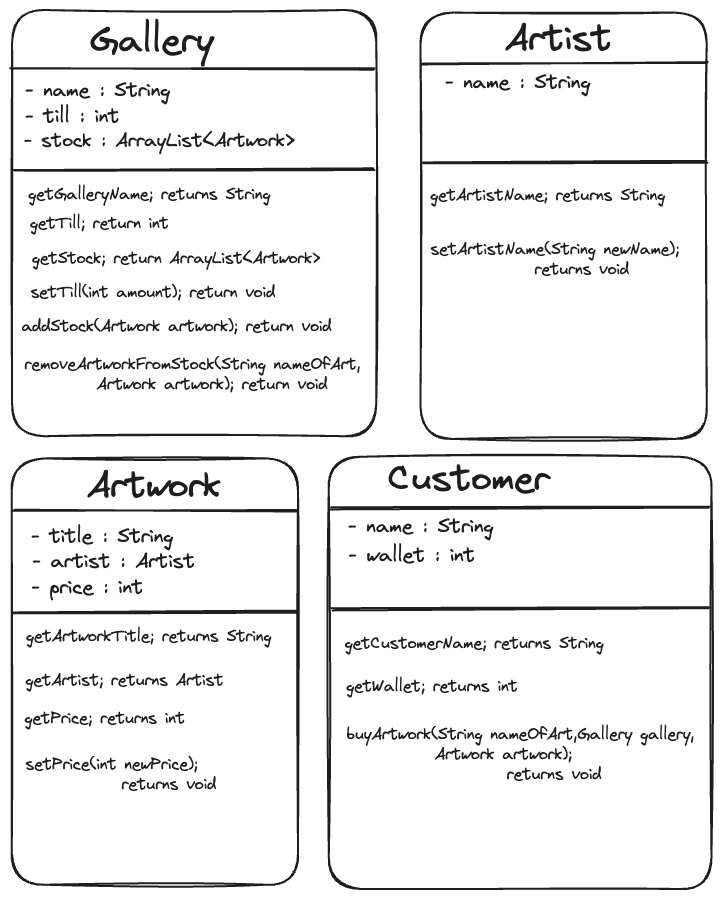
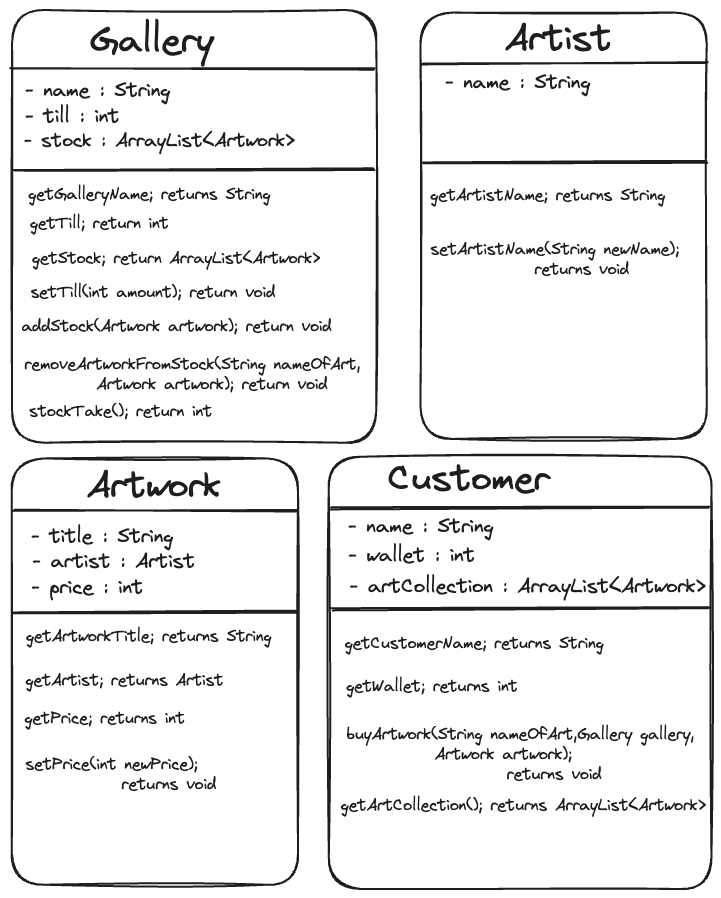
add extension and update uml

diff --git a/src/test/java/CustomerTest.java b/src/test/java/CustomerTest.java
@@ -1,5 +1,8 @@
 import org.junit.jupiter.api.BeforeEach;
 import org.junit.jupiter.api.Test;
+
+import java.util.ArrayList;
+
 import static org.assertj.core.api.AssertionsForClassTypes.assertThat;
 
 public class CustomerTest {
@@ -30,11 +33,26 @@ public class CustomerTest {
     }
 
     @Test
-    public void canBuyArtwork() {
+    public void canBuyArtworkAndChangeWallet() {
         customer.buyArtwork("Flower", gallery, artwork);
         int result = customer.getWallet();
         assertThat(result).isEqualTo(50);
     }
+
+    @Test
+    public void canGetArtCollection() {
+        ArrayList<Artwork> result = customer.getArtCollection();
+        assertThat(result.isEmpty()).isEqualTo(true);
+    }
+
+    @Test
+    public void canBuyArtworkAndChangeArtCollection() {
+        customer.buyArtwork("Flower", gallery, artwork);
+        ArrayList<Artwork> result = customer.getArtCollection();
+        assertThat(result.get(0)).isEqualTo(artwork);
+    }
+
+
 
 
 }

diff --git a/src/test/java/GalleryTest.java b/src/test/java/GalleryTest.java
@@ -9,12 +9,14 @@ public class GalleryTest {
 
     Artist artist;
     Artwork artwork;
+    Artwork artwork2;
     Gallery gallery;
 
     @BeforeEach
     public void setUp() {
         artist = new Artist("Picasso");
         artwork = new Artwork("Flower", 100, artist);
+        artwork2 = new Artwork("Sunset", 300, artist);
         gallery = new Gallery("Tate Modern");
     }
 
@@ -56,4 +58,13 @@ public class GalleryTest {
         gallery.removeArtworkFromStock("Flower", artwork);
         assertThat(gallery.getStock().isEmpty()).isEqualTo(true);
     }
+
+    @Test
+    public void canStockTake() {
+        gallery.addStock(artwork);
+        gallery.addStock(artwork2);
+        int result = gallery.stockTake();
+        assertThat(result).isEqualTo(400);
+    }
+
 }

diff --git a/src/main/java/Customer.java b/src/main/java/Customer.java
@@ -1,15 +1,19 @@
+import java.util.ArrayList;
+
 public class Customer {
 
 //    Properties
 
     private String name;
     private int wallet;
+    private ArrayList<Artwork> artCollection;
 
 //    Constructor
 
     public Customer(String name, int wallet){
         this.name = name;
         this.wallet = wallet;
+        this.artCollection = new ArrayList<>();
     }
 
     public String getCustomerName() {
@@ -27,7 +31,15 @@ public class Customer {
 
         gallery.removeArtworkFromStock(nameOfArt, artwork);
 
-        }
+        this.artCollection.add(artwork);
+
+    }
+
+    public ArrayList<Artwork> getArtCollection() {
+        return this.artCollection;
+    }
+
+
 }
 
 

diff --git a/src/main/java/Gallery.java b/src/main/java/Gallery.java
@@ -43,4 +43,14 @@ public class Gallery {
             }
         }
     }
+
+    public int stockTake() {
+        int totalStock = 0;
+
+        for(int i=0; i < this.stock.size(); i++) {
+            totalStock += this.stock.get(i).getPrice();
+        }
+        return totalStock;
+    }
+
 }
